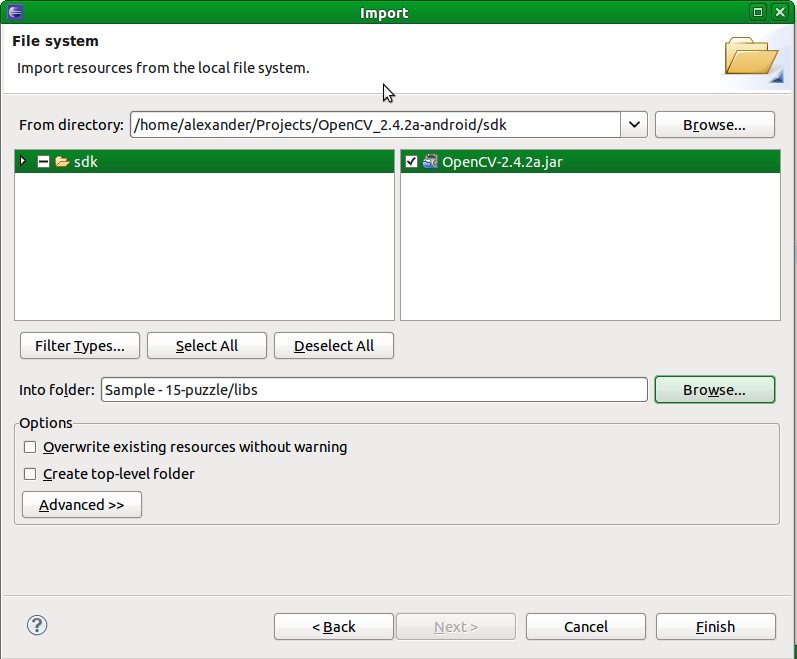
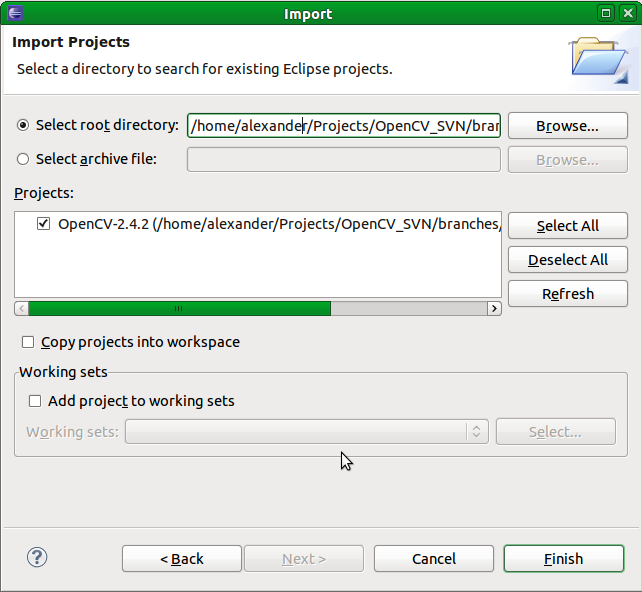
OpenCV4Android Tutorial updated.
git-svn-id: file://localhost/home/tolik/svnrepo/branches/ocv_android_service@8588 c5418bc3-7546-4aae-8bad-fa6f2f3e53e6

diff --git a/doc/tutorials/introduction/android_binary_package/android_binary_package.rst b/doc/tutorials/introduction/android_binary_package/android_binary_package.rst
@@ -297,8 +297,6 @@ Well, running samples from Eclipse is very simple:
      :alt: Tutorial 1 Basic - 1. Add OpenCV - running Canny
      :align: center
 
-
-
 How to use OpenCV library project in your application
 =====================================================
 
@@ -307,24 +305,15 @@ Application development with async initialisation
 
 Using async initialization is a preferred way for application Development. It uses OpenCV Manager service to get OpenCV libraries.
 
-#. Create "libs" folder in your project;
-
-#. Add OpenCV jar library to your project. Go to :guilabel:`File –> Import –> File System`, push Browse button and select OpenCV jar file from sdk/OpenCV-2.4.2a.jar. 
-    Then in box :guilabel:`Into folder` push button Browse and select "libs" folder. Set check box on the OpenCV jar file name.
+#. Add OpenCV library project to your workspace. Go to :guilabel:`File –> Import –> Existing project in your workspace`, push Browse button and select OpenCV SDK path. 
 
 .. image:: images/eclipse_opencv_dependency0.png
      :alt: Add dependency from OpenCV library
      :align: center
 
-#. In application project add reference to OpenCV Java API JAR in :guilabel:`Project –> Properties –> Java build path –> Libraries –> Add JARs...` select libs/opencv-2.4.2.jar;
+#. In application project add reference to OpenCV Java SDK in :guilabel:`Project –> Properties –> Android –> Library –> Add` select OpenCV-2.4.2;
 
 .. image:: images/eclipse_opencv_dependency1.png
-     :alt: Add dependency from OpenCV library
-     :align: center
-
-#. Add OpenCV Java API JAR to Export list by selecting in in :guilabel:`Project –> Properties –> Java build path –> Order and Export list`.
-
-.. image:: images/eclipse_opencv_dependency2.png
      :alt: Add dependency from OpenCV library
      :align: center
 
@@ -345,7 +334,7 @@ There is a very base code snippet for Async init. It shows only basis principles
     {
 	private BaseLoaderCallback mOpenCVCallBack = new BaseLoaderCallback(this) {
 	@Override
-	public void onEngineConnected(int status) {
+	public void onManagerConnected(int status) {
 		switch (status) {
 		    case LoaderCallbackInterface.SUCCESS:
 		    {
@@ -356,7 +345,7 @@ There is a very base code snippet for Async init. It shows only basis principles
 		    } break;
 		    default:
 		    {
-			super.onEngineConnected(status);	
+			super.onManagerConnected(status);	
 		    } break;
 		}
 	    }
@@ -370,9 +359,9 @@ There is a very base code snippet for Async init. It shows only basis principles
 	    super.onCreate(savedInstanceState);
         
 	    Log.i(TAG, "Trying to load OpenCV library");
-	    if (!OpenCVLoader.initAsync(OpenCVLoader.OPEN_CV_VERSION_2_4, this, mOpenCVCallBack))
+	    if (!OpenCVLoader.initAsync(OpenCVLoader.OPENCV_VERSION_2_4_0, this, mOpenCVCallBack))
 	    {
-        	Log.e(TAG, "Cannot connect to OpenCVEngine");
+        	Log.e(TAG, "Cannot connect to OpenCV Manager");
         	//finish();
 	    }
 	}
@@ -389,24 +378,15 @@ Application development with static initialisation
 In this way of using OpenCV all OpenCV binaries a linked and put to your application package. It is designed for experimantal and local development purposes only. 
 This way is depricated for production code. If you want to publish your app use aproach with async initialisation.
 
-#. Create "libs" folder in your project;
-
-#. Add OpenCV jar library to your project. Go to :guilabel:`File –> Import –> File System`, push Browse button and select OpenCV jar file from sdk/OpenCV-2.4.2a.jar. 
-    Then in box :guilabel:`Into folder` push button Browse and select "libs" folder. Set check box on the OpenCV jar file name.
+#. Add OpenCV library project to your workspace. Go to :guilabel:`File –> Import –> Existing project in your workspace`, push Browse button and select OpenCV SDK path. 
 
 .. image:: images/eclipse_opencv_dependency0.png
      :alt: Add dependency from OpenCV library
      :align: center
 
-#. In application project add reference to OpenCV Java API JAR in :guilabel:`Project –> Properties –> Java build path –> Libraries –> Add External JARs...` select OpenCV-2.4.1/bin/opencv-2.4.1.jar;
+#. In application project add reference to OpenCV Java SDK in :guilabel:`Project –> Properties –> Android –> Library –> Add` select OpenCV-2.4.2;
 
 .. image:: images/eclipse_opencv_dependency1.png
-     :alt: Add dependency from OpenCV library
-     :align: center
-
-#. Add OpenCV Java API JAR to Export list by selecting in in :guilabel:`Project –> Properties –> Java build path –> Order and Export list`.
-
-.. image:: images/eclipse_opencv_dependency2.png
      :alt: Add dependency from OpenCV library
      :align: center
 

diff --git a/doc/tutorials/introduction/android_binary_package/android_binary_package_using_with_NDK.rst b/doc/tutorials/introduction/android_binary_package/android_binary_package_using_with_NDK.rst
@@ -324,7 +324,7 @@ To build your own Android application, which uses OpenCV from native part, the f
 
    .. code-block:: make
 
-           include $(OPENCV_PACKAGE_DIR)/share/OpenCV/OpenCV.mk
+           include $(OPENCV_PACKAGE_DIR)/sdk/native/jni/OpenCV.mk
 
    should be inserted into the :file:`jni/Android.mk` file right after the line
 

diff --git a/android/service/doc/index.rst b/android/service/doc/index.rst
@@ -1,6 +1,6 @@
-*************************************************
-OpenCV Manager. Android service for OpenCV
-*************************************************
+***********************
+Android OpenCV Manager
+***********************
 
 Contents:
 

diff --git a/android/service/doc/InstallCallbackInterface.rst b/android/service/doc/InstallCallbackInterface.rst
@@ -32,4 +32,4 @@ void cancel()
 
 .. method:: void cancel()
 
-    Installation canceled
+    Installation if package was canceled
